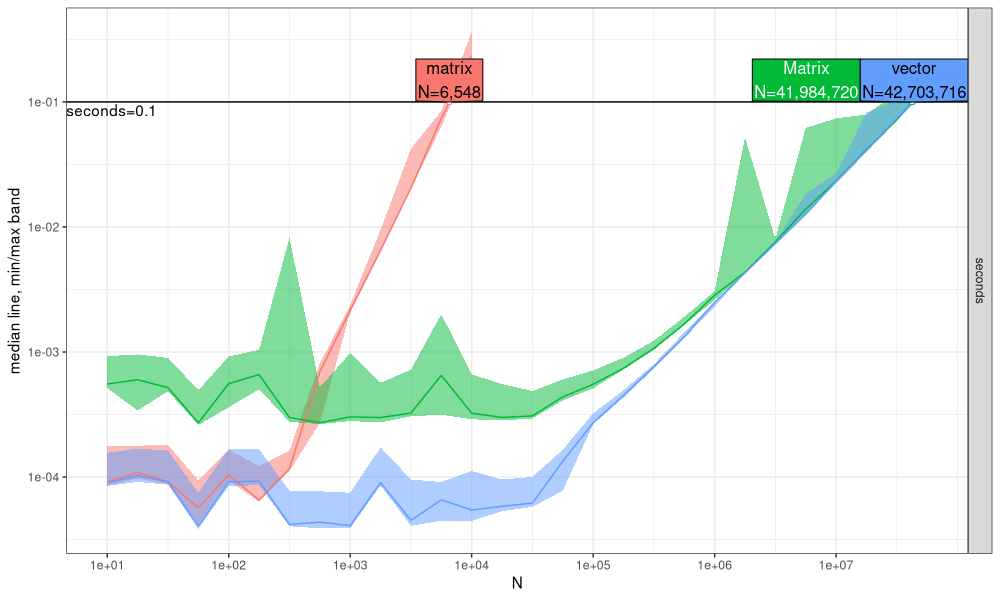
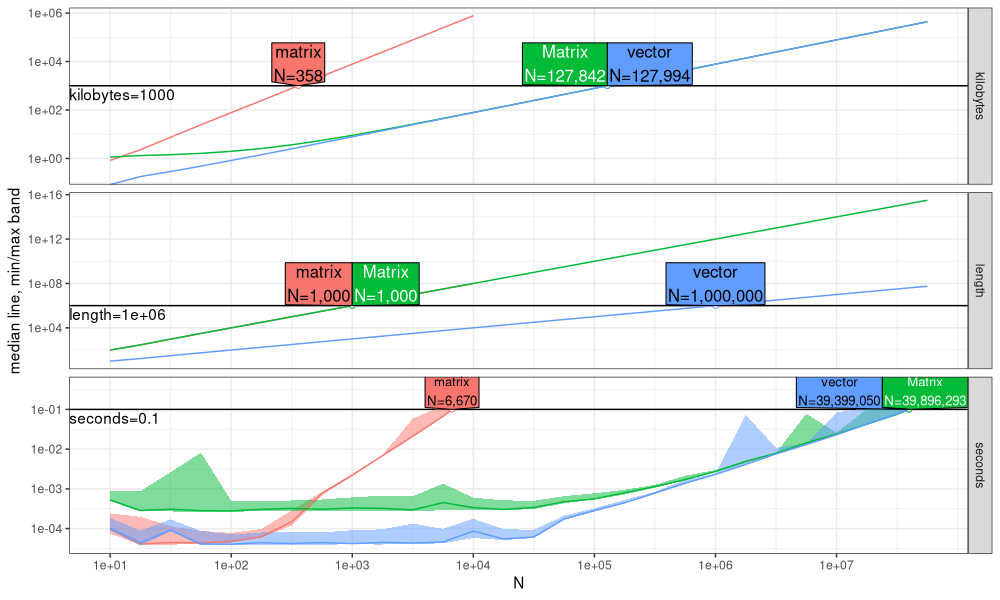
clarify

diff --git a/_posts/2026-09-11-foil-atime.md b/_posts/2026-09-11-foil-atime.md
@@ -6,7 +6,7 @@ description: Comparison with atime
 
 
 
-Recently Visruth Srimath Kandali asked me to review his [foil proposal](https://visruthsk.github.io/foil-ISC-2026/).
+Recently Visruth Srimath Kandali asked me to review his [`foil` proposal](https://visruthsk.github.io/foil-ISC-2026/).
 
 ## Comments about memory measurement
 
@@ -49,12 +49,12 @@ plot(vec.mat.result)
 * We also see that dense `matrix` allocation and `vector` allocation are the same speed for small N, but dense `matrix` allocation is asymptotically slower.
 
 The amount of data needed to get to the asymptotic regime depends on the particular computer you are using.
-So if you use benchmark only one data size, 
+So if you benchmark only one data size,
 
 * it may be in the constant factor regime on one machine,
 * and in the asymptotic regime on another machine.
 
-This is a drawback of other benchmarking software (besides atime), such as foil, touchstone, etc.
+This is a drawback of other non-asymptotic benchmarking software (besides atime), such as `foil`, `touchstone`, etc.
 
 ## Comments on comparing package versions
 
@@ -70,7 +70,7 @@ Example `atime` test case definitions for GitHub Actions CI:
 
 ## Paired comparison
 
-A central feature of foil is paired comparison, which I believe means running benchmarks like this (for the matrix/vector example discussed above)
+A central feature of `foil` is paired comparison, which I believe means running benchmarks like this (for the matrix/vector example discussed above)
 
 * matrix run 1
 * vector run 1
@@ -80,7 +80,7 @@ A central feature of foil is paired comparison, which I believe means running be
 * matrix run 10
 * vector run 10
 
-This approach is preferred by foil to limit drift, which means that the earlier runs may be faster or slower than later runs.
+This approach is preferred by `foil` to limit drift, which means that the earlier runs may be faster or slower than later runs.
 In contrast `atime` uses `bench::mark`, and the man page does not specify the order, but the source code says
 
 ```r
@@ -99,6 +99,9 @@ which means that it does all of the runs for one expression, than the other:
 * …
 * vector run 10
 
+This method would be more sensitive to drift.
+For example if there was some background task during earlier runs, but not later runs, then the matrix runs may appear slower than they should (if there was no background task).
+
 However, the focus in `foil` and `touchstone` on comparing two expressions can be a limitation in the context of performance testing (in which the expressions are different software versions that may be relevant in the context of a GitHub Pull Request).
 Whereas `foil` and `touchstone` are limited to comparing two versions (PR branch and base=main), `atime_pkg()` by default includes other relevant versions (merge-base, CRAN) and can also show user defined historical versions (this has been very important in `data.table`, which had many performance issues reported over the years, so many historical versions to run as references of fast and slow code).
 
@@ -107,11 +110,12 @@ Whereas `foil` and `touchstone` are limited to comparing two versions (PR branch
 In `atime` performance testing, test cases are defined in a special file, `package/.ci/atime/tests.R`.
 In the `foil` proposal, I did not see any mention of how the tests are defined.
 I think it's pretty important that test cases for performance should be separate from other test cases like unit tests, which have small data sizes and so are irrelevant for performance.
-That is the main drawback of previous systems like [Rperform](https://github.com/analyticalmonk/Rperform).
+That is the main drawback of previous systems like [Rperform](https://github.com/analyticalmonk/Rperform), which is limited to measuring time and memory of `testthat` test cases.
 
 ## Other figures
 
-The code below computes best asymptotic references:
+Here, we continuing the `atime` code example, in order to highlight its other unique features (not related to performance testing different versions of R packages).
+The code below computes best asymptotic references, which can be used to infer the asymptotic complexity classes (big-O notation).
 
 
 ``` r
@@ -131,7 +135,11 @@ The code below computes the throughput, or the data size we can handle with a gi
 
 
 ``` r
-vec.mat.pred <- predict(vec.mat.ref)
+vec.mat.pred <- predict(
+  vec.mat.ref,
+  seconds=vec.mat.ref$seconds.limit,
+  kilobytes=1000,
+  length=1e6)
 plot(vec.mat.pred)
 ```
 
@@ -140,9 +148,19 @@ plot(vec.mat.pred)
 ## introduced infinite values.
 ```
 
+```
+## Warning in ggplot2::scale_y_log10("median line, min/max band"): log-10 transformation introduced infinite values.
+```
+
 ![plot of chunk atime-pred](/assets/img/2026-09-11-foil-atime/atime-pred-1.png)
 
-Above we see the `N` at the time limit is about the same for sparse `Matrix` and `vector`, both orders of magnitude larger than the `N` for dense `matrix`.
+Above we see
+
+* top panel: the `N` at the memory limit of 1000 kilobytes is about the same for sparse `Matrix` and `vector`, both orders of magnitude larger than the `N` for dense `matrix`.
+* center panel: the `N` with length=1e6 is the same for sparse `Matrix` and dense `matrix`, both 1000 times smaller than `N` for `vector`.
+* bottom panel: the `N` at the time limit is about the same for sparse `Matrix` and `vector`, both orders of magnitude larger than the `N` for dense `matrix`.
+
+Overall, we have highlighted the unique features of `atime` for benchmarking R code.
 
 ## Session info
 
